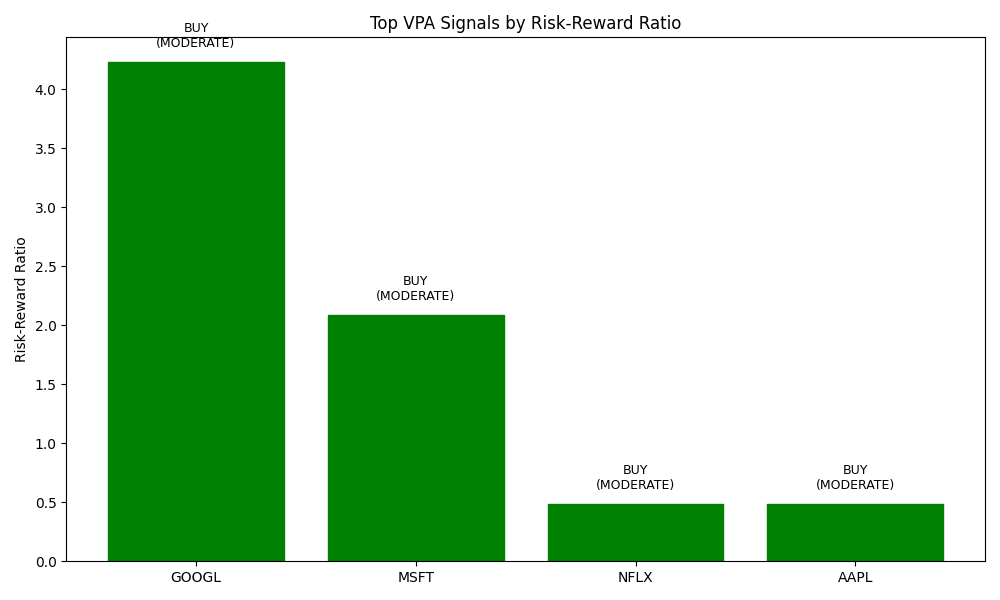
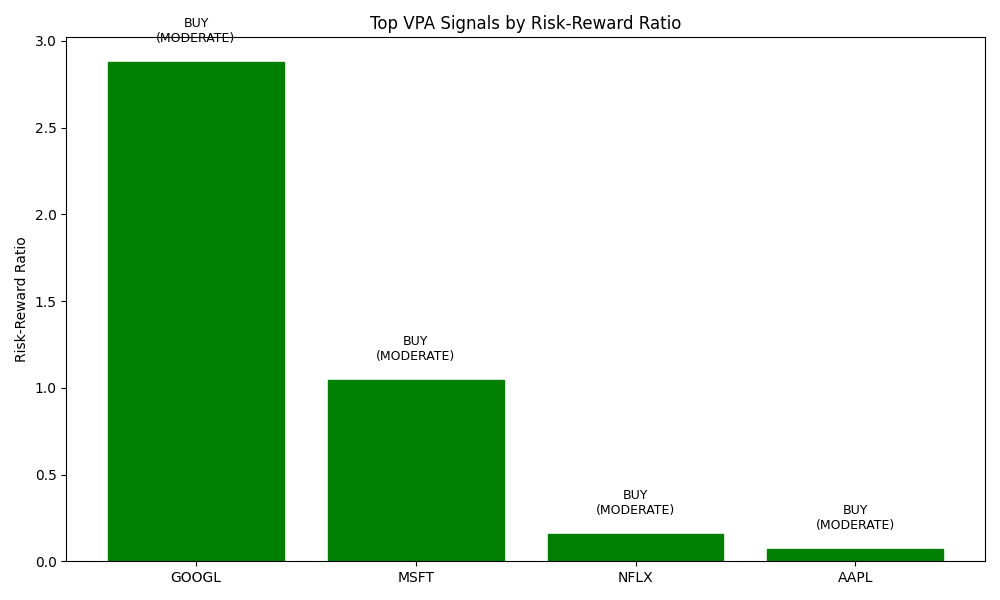
Add new VPA analysis reports and update existing report details for AAPL, GOOGL, MSFT, and NFLX; include new visualizations and update HTML dashboard with latest data.

diff --git a/vpa_batch_reports/vpa_batch_report.html b/vpa_batch_reports/vpa_batch_report.html
@@ -20,7 +20,7 @@
     </head>
     <body>
         <h1>VPA Batch Analysis Report</h1>
-        <p>Generated on: 2025-04-21 22:29:11</p>
+        <p>Generated on: 2025-04-22 19:15:42</p>
         <p>Tickers analyzed: 4</p>
         
         <h2>Dashboard</h2>
@@ -51,52 +51,52 @@
             </tr>
             
         <tr class="buy">
-            <td><a href="GOOGL/GOOGL_vpa_report_2025-04-21_22-28-56.txt" class="ticker-link">GOOGL</a></td>
+            <td><a href="GOOGL/GOOGL_vpa_report_2025-04-22_19-15-26.txt" class="ticker-link">GOOGL</a></td>
             <td>BUY</td>
             <td>MODERATE</td>
-            <td>$146.79</td>
-            <td>$143.85</td>
+            <td>$150.54</td>
+            <td>$147.53</td>
             <td>$159.20</td>
-            <td>4.23</td>
-            <td>DOWN</td>
-            <td>DECREASING</td>
-            <td>accumulation, distribution, testing, selling_climax</td>
-        </tr>
-    
-        <tr class="buy">
-            <td><a href="MSFT/MSFT_vpa_report_2025-04-21_22-28-56.txt" class="ticker-link">MSFT</a></td>
-            <td>BUY</td>
-            <td>MODERATE</td>
-            <td>$357.29</td>
-            <td>$343.07</td>
-            <td>$387.01</td>
-            <td>2.09</td>
+            <td>2.88</td>
             <td>DOWN</td>
             <td>DECREASING</td>
             <td>accumulation, distribution, testing</td>
         </tr>
     
         <tr class="buy">
-            <td><a href="NFLX/NFLX_vpa_report_2025-04-21_22-28-56.txt" class="ticker-link">NFLX</a></td>
+            <td><a href="MSFT/MSFT_vpa_report_2025-04-22_19-15-26.txt" class="ticker-link">MSFT</a></td>
             <td>BUY</td>
             <td>MODERATE</td>
-            <td>$984.08</td>
-            <td>$950.23</td>
-            <td>$1000.58</td>
-            <td>0.49</td>
-            <td>UP</td>
-            <td>INCREASING</td>
-            <td>accumulation, distribution, buying_climax, selling_climax</td>
+            <td>$364.58</td>
+            <td>$343.07</td>
+            <td>$387.01</td>
+            <td>1.04</td>
+            <td>DOWN</td>
+            <td>DECREASING</td>
+            <td>accumulation, distribution, testing</td>
         </tr>
     
         <tr class="buy">
-            <td><a href="AAPL/AAPL_vpa_report_2025-04-21_22-28-56.txt" class="ticker-link">AAPL</a></td>
+            <td><a href="NFLX/NFLX_vpa_report_2025-04-22_19-15-26.txt" class="ticker-link">NFLX</a></td>
             <td>BUY</td>
             <td>MODERATE</td>
-            <td>$190.76</td>
+            <td>$1059.54</td>
+            <td>$993.36</td>
+            <td>$1069.82</td>
+            <td>0.16</td>
+            <td>UP</td>
+            <td>INCREASING</td>
+            <td>accumulation, distribution</td>
+        </tr>
+    
+        <tr class="buy">
+            <td><a href="AAPL/AAPL_vpa_report_2025-04-22_19-15-26.txt" class="ticker-link">AAPL</a></td>
+            <td>BUY</td>
+            <td>MODERATE</td>
+            <td>$199.43</td>
             <td>$168.36</td>
             <td>$201.61</td>
-            <td>0.48</td>
+            <td>0.07</td>
             <td>DOWN</td>
             <td>DECREASING</td>
             <td>accumulation, distribution, testing</td>
